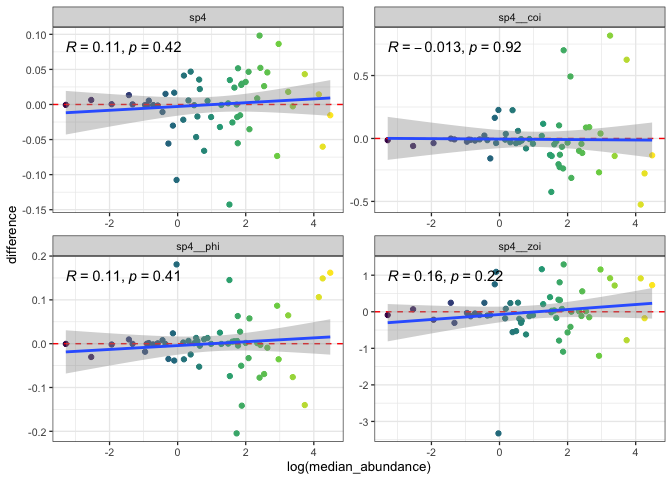
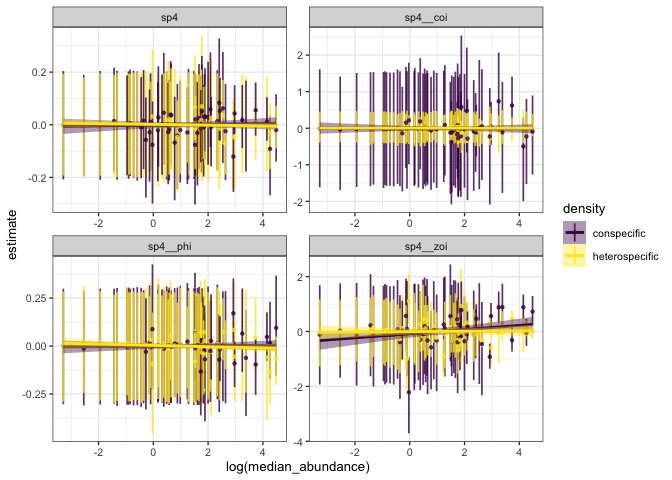
two new figs

diff --git a/code/exploration/19_species-abundance.md b/code/exploration/19_species-abundance.md
@@ -263,11 +263,60 @@ sp_ests_h <-
 est_diff <- 
   bind_rows(list("conspecific" = sp_ests, "heterospecific" = sp_ests_h),
           .id = "density") %>% 
-  select(term, level, density, estimate, group) %>% 
-  pivot_wider(values_from = estimate, names_from = density) %>% 
-  mutate(abs_difference = abs(conspecific - heterospecific),
-         difference = conspecific - heterospecific)
+  select(term, level, density, estimate, group, conf.low, conf.high) %>% 
+  pivot_wider(values_from = c(estimate, conf.low, conf.high), 
+              names_from = density) %>% 
+  mutate(abs_difference = abs(estimate_conspecific - estimate_heterospecific),
+         difference = estimate_conspecific - estimate_heterospecific)
 ```
+
+``` r
+bind_rows(list("conspecific" = sp_ests, "heterospecific" = sp_ests_h),
+          .id = "density") %>% 
+  rowwise() %>% 
+  filter(! str_detect("Intercept", term)) %>% 
+  left_join(abun, by = c("level" = "sp4")) %>%  
+  ggplot(aes(x = log(median_abundance), 
+             y = estimate, 
+             group = density)) +
+  geom_pointinterval(aes(ymax = conf.high,
+                         ymin = conf.low,
+                         colour = density),
+             alpha = 0.8, shape = 16) +
+  geom_smooth(aes(colour = density,
+                  fill = density),
+              method = "lm") +
+  facet_wrap(~group, scales = "free") +
+  scale_colour_viridis_d() +
+  scale_fill_viridis_d() 
+```
+
+    ## `geom_smooth()` using formula = 'y ~ x'
+
+![](figures/19_species-abundance/unnamed-chunk-14-1.png)<!-- -->
+
+``` r
+bind_rows(list("conspecific" = sp_ests, "heterospecific" = sp_ests_h),
+          .id = "density") %>% 
+  rowwise() %>% 
+  filter(! str_detect("Intercept", term)) %>% 
+  left_join(abun, by = c("level" = "sp4")) %>%  
+  ggplot(aes(x = log(median_abundance), 
+             y = estimate, 
+             group = density)) +
+  geom_point(aes(colour = density),
+             alpha = 0.8, shape = 16) +
+  geom_smooth(aes(colour = density,
+                  fill = density),
+              method = "lm") +
+  facet_wrap(~group, scales = "free") +
+  scale_colour_viridis_d() +
+  scale_fill_viridis_d() 
+```
+
+    ## `geom_smooth()` using formula = 'y ~ x'
+
+![](figures/19_species-abundance/unnamed-chunk-15-1.png)<!-- -->
 
 ``` r
 est_diff %>%
@@ -288,7 +337,7 @@ est_diff %>%
 
     ## `geom_smooth()` using formula = 'y ~ x'
 
-![](figures/19_species-abundance/unnamed-chunk-14-1.png)<!-- -->
+![](figures/19_species-abundance/unnamed-chunk-16-1.png)<!-- -->
 
 More of a difference between effect of conspecifics & effect of
 heterospecifics when abundance is high?
@@ -320,7 +369,7 @@ autoplot(pca_p,
          loadings.label = TRUE)
 ```
 
-![](figures/19_species-abundance/unnamed-chunk-15-1.png)<!-- -->
+![](figures/19_species-abundance/unnamed-chunk-17-1.png)<!-- -->
 
 ``` r
 fortify(pca_p) %>% 
@@ -331,7 +380,7 @@ fortify(pca_p) %>%
   scale_colour_viridis_c() 
 ```
 
-![](figures/19_species-abundance/unnamed-chunk-15-2.png)<!-- -->
+![](figures/19_species-abundance/unnamed-chunk-17-2.png)<!-- -->
 
 ``` r
 preds_sp <- 
@@ -359,4 +408,4 @@ preds_sp %>%
 
     ## Joining with `by = join_by(sp4)`
 
-![](figures/19_species-abundance/unnamed-chunk-17-1.png)<!-- -->
+![](figures/19_species-abundance/unnamed-chunk-19-1.png)<!-- -->
